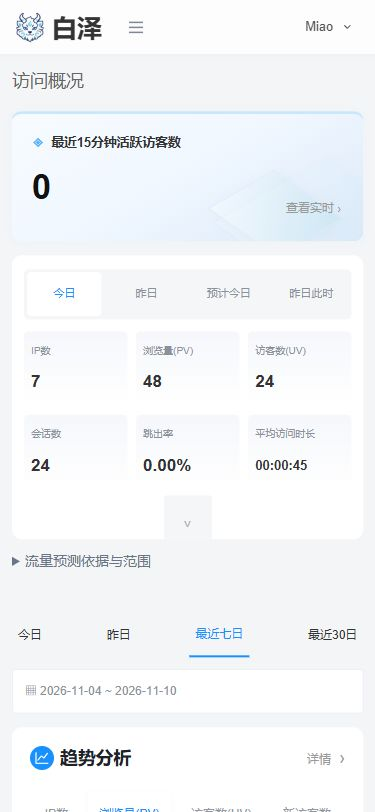
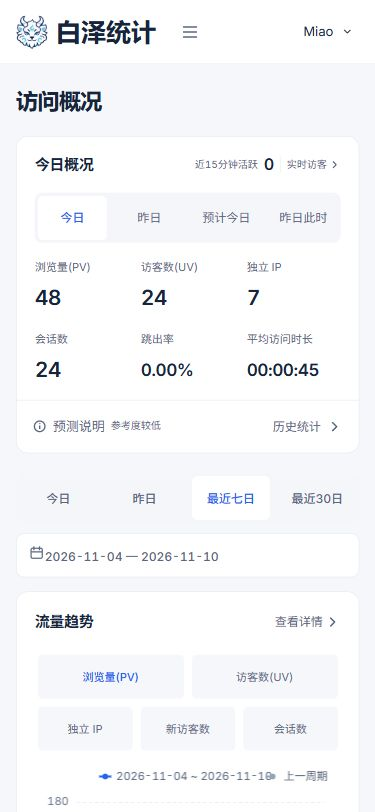
docs: update Baize product positioning and current UI previews

diff --git a/README.md b/README.md
@@ -4,7 +4,7 @@
 
 **把网站流量、页面表现和转化放在自己的服务器上。**
 
-白泽是一套免费、自托管的网站分析工具，提供中文和英文界面。接入追踪代码后，可以查看访问、来源、页面与受众，再按需要启用事件、目标、SEO 和 AI 分析。功能不设付费门槛，服务器和外部服务的费用由使用者承担。
+白泽是一套开源、自托管的网站统计产品。接入统计代码后，即可查看访问趋势、流量来源、页面表现和转化。支持中文与英文界面。
 
 项目正在打磨完善，欢迎通过 [Issue](https://github.com/bocmiao/baize-analytics/issues) 反馈问题，也欢迎提交 [PR](https://github.com/bocmiao/baize-analytics/pulls)。
 
@@ -15,17 +15,17 @@
 - **看清网站访问**：浏览量、访客、会话、来源渠道、UTM、热门页面、设备、地域和 Web Vitals，支持日期筛选与期间对比。
 - **补全流量细节（Node 标准版）**：独立 IP、离线 IPv4 / IPv6 地域与运营商、今日流量预测、事件定义管理及蜘蛛访问日志。[配置方法](docs/TRAFFIC_DATA_SETUP.md)。
 - **管理内容与推广（Node 标准版）**：自定义目录规则，保存推广链接和 UTM 参数，生成本地二维码，按来源、活动、媒介逐级分析。[使用说明](docs/CONTENT_CAMPAIGN_SETUP.md)。
-- **追踪事件与转化**：自定义事件和目标；标准版还提供漏斗、路径、留存与实验归因。
+- **追踪事件与转化**：自定义事件和目标；标准版还提供漏斗、路径和留存分析。
 - **管理多个站点**：站点权限、数据导出、保留期限和访客删除；标准版支持团队邀请、分享、定时报表与告警。
-- **按需分析**：标准版可启用会话回放、页面热力图、可视化事件圈选、多事件与参数比较、搜索连接器和 AI；Lite 提供手动 HTML 检查和手动 BYOK AI。
+- **分析访客行为**：标准版支持会话回放、页面热力图、可视化事件圈选，以及多事件与参数比较。
 - **分享汇总（Node 标准版）**：带密码和有效期的只读看板，以及趋势、来源、设备、地域和页面图表嵌入。[分享说明](docs/SHARED_DASHBOARDS.md)。
-- **保留数据控制权**：支持采集同意、隐私设置和独立删除日志；恢复备份时重放删除记录。AI 默认关闭，使用时由你提供密钥并授权外发。
+- **保留数据控制权**：支持采集同意、隐私设置和独立删除日志；恢复备份时重放删除记录。
 
 ## 界面预览
 
-当前后台采用白色桌面工作台，手机端提供适配的导航与报表布局。预览使用独立演示站点的数据；[截图来源与验证范围](docs/images/README.md)。
+工作台采用白泽蓝白配色，支持深色模式和手机布局。统计、转化和行为分析按任务分组，管理工具收进设置。预览使用独立演示站点的数据；[截图来源与验证范围](docs/images/README.md)。
 
-这版新增的流量报表由 **Node 标准版**提供；Node Lite 和独立 PHP 版保留各自既有能力。具体范围见[界面与报表说明](docs/51LA_ALIGNMENT.md)、[逐项功能对照](docs/51LA_FUNCTION_MATRIX.md)和[桌面与手机实机验收](docs/validation/51LA_FUNCTIONAL_NAS_20261110.md)。
+这版新增的流量报表由 **Node 标准版**提供；Node Lite 和独立 PHP 版保留各自既有能力。本次界面整理见[产品界面验收](docs/validation/BAIZE_PRODUCT_UI_20261110.md)，完整能力范围见[逐项功能对照](docs/51LA_FUNCTION_MATRIX.md)。
 
 ![白泽桌面端界面](docs/images/baize-desktop.jpg)
 
@@ -40,8 +40,8 @@
 
 | 运行方式 | 存储与部署 | 适用范围 |
 | --- | --- | --- |
-| **Node 标准版** | PostgreSQL；Docker 安装提供 PostgreSQL 和 Redis，也可独立托管 | 完整统计、行为分析、团队协作与连接器 |
-| **Node Lite** | 本地 SQLite，单应用进程；不需要独立数据库服务 | 核心统计、事件、简单事件目标，以及手动 SEO / AI |
+| **Node 标准版** | PostgreSQL；Docker 安装提供 PostgreSQL 和 Redis，也可独立托管 | 完整统计、行为分析、团队协作与报表管理 |
+| **Node Lite** | 本地 SQLite，单应用进程；不需要独立数据库服务 | 核心统计、事件与简单事件目标 |
 | **独立 PHP 版** | PHP 8.3+、PHP-FPM、MySQL 和 CLI worker | 面向 PHP / 1Panel 环境，功能对照和数据库兼容性见 [PHP 指南](docs/PHP_INSTALLATION.md) |
 
 Lite 不提供漏斗、路径、留存、回放、热力图等高级能力，只支持一个本地数据库写入者，不使用网络文件系统。需要转到 Node 标准版时，按 [迁移指南](docs/lite-migration.md) 操作。

diff --git a/README.en.md b/README.en.md
@@ -4,7 +4,7 @@
 
 **Understand traffic, page performance and conversions on your own server.**
 
-Baize is a free, self-hosted website analytics tool with Chinese and English interfaces. Add its tracker to see traffic, sources, pages and audiences, then enable events, goals, SEO or AI analysis as needed. There are no paid feature gates; you cover your hosting and external-service costs.
+Baize is an open-source, self-hosted website analytics product. Add the tracking code to explore traffic trends, acquisition, page performance and conversions. Chinese and English interfaces are available.
 
 Baize is under active development. [Bug reports and suggestions](https://github.com/bocmiao/baize-analytics/issues) and [pull requests](https://github.com/bocmiao/baize-analytics/pulls) are welcome.
 
@@ -14,16 +14,16 @@ Baize is under active development. [Bug reports and suggestions](https://github.
 
 - **Understand visits:** pageviews, visitors, sessions, channels, UTM, popular pages, devices, geography and Web Vitals, with date filters and period comparisons.
 - **Complete traffic details (Node Standard):** distinct IPs, offline IPv4/IPv6 geography and ISP data, today’s traffic forecast, event definitions and crawler access logs. [Setup guide](docs/TRAFFIC_DATA_SETUP.md) (Chinese).
-- **Track events and conversions:** custom events and goals. Standard also offers funnels, paths, retention and experiment attribution.
+- **Track events and conversions:** custom events and goals. Standard also offers funnels, paths and retention.
 - **Manage multiple sites:** site permissions, exports, data retention and visitor deletion. Standard adds team invitations, sharing, scheduled reports and alerts.
-- **Explore when needed:** opt-in replay, heatmaps, search connectors and AI in Standard; manual HTML checks and manual BYOK AI in Lite.
-- **Control your data:** collection consent, privacy settings and an independent deletion journal that is replayed during recovery. AI is off by default and requires your key and permission to send data.
+- **Explore visitor behavior:** opt-in replay, heatmaps, visual event selection, and event comparisons in Standard.
+- **Control your data:** collection consent, privacy settings and an independent deletion journal that is replayed during recovery.
 
 ## Interface
 
-The current dashboard uses a white desktop workspace, with navigation and report layouts adapted for mobile. The preview uses a separate demonstration site's data. See [capture details and validation scope](docs/images/README.md).
+The workspace uses Baize’s blue and white palette, with dark mode and mobile layouts. Analytics are organized by task, with administration grouped under Settings. The preview uses a separate demonstration site's data. See [capture details and validation scope](docs/images/README.md).
 
-The new traffic reports in this interface are available in **Node Standard**. Node Lite and the independent PHP application retain their existing capabilities. See [interface and report scope](docs/51LA_ALIGNMENT.md) (Chinese).
+The new traffic reports in this interface are available in **Node Standard**. Node Lite and the independent PHP application retain their existing capabilities. See the [product UI validation](docs/validation/BAIZE_PRODUCT_UI_20261110.md) and [feature matrix](docs/51LA_FUNCTION_MATRIX.md) (Chinese).
 
 ![Baize desktop interface](docs/images/baize-desktop.jpg)
 
@@ -38,8 +38,8 @@ The new traffic reports in this interface are available in **Node Standard**. No
 
 | Runtime | Storage and deployment | Scope |
 | --- | --- | --- |
-| **Node Standard** | PostgreSQL; the Docker installer includes PostgreSQL and Redis, or you can host the services separately | Full analytics, behavioral reports, collaboration and connectors |
-| **Node Lite** | Local SQLite and one application process; no separate database service | Core analytics, events, simple event goals and manual SEO / AI |
+| **Node Standard** | PostgreSQL; the Docker installer includes PostgreSQL and Redis, or you can host the services separately | Full analytics, behavioral reports, collaboration and report management |
+| **Node Lite** | Local SQLite and one application process; no separate database service | Core analytics, events and simple event goals |
 | **Independent PHP application** | PHP 8.3+, PHP-FPM, MySQL and a CLI worker | PHP / 1Panel hosting; see the [PHP guide](docs/PHP_INSTALLATION.md) for feature coverage and database compatibility |
 
 Lite does not include funnels, paths, retention, replay or heatmaps. It requires one local database writer and does not support network filesystems. To move to Node Standard, follow the [migration guide](docs/lite-migration.md).

diff --git a/docs/validation/BAIZE_PRODUCT_UI_20261110.md b/docs/validation/BAIZE_PRODUCT_UI_20261110.md
@@ -1,0 +1,39 @@
+# 白泽产品界面整理
+
+日期：2026-11-10。运行源码：`b1ed60c`；主要改动提交：`93bde61`。
+
+本轮把工作台聚焦于网站访问分析，使用白泽已有头像和蓝色品牌。统计服务、数据库结构和采集逻辑未改动。
+
+## 界面改动
+
+- 删除概况底部的人工日期备注，移除正常查询下的存储来源、epoch、水位等内部说明。
+- 主导航整理为概况、实时、流量、来源、内容、访客、转化、行为、推广、设置。AI、SEO、收入、实验等九个非核心入口退出默认导航；既有路由保留兼容。
+- 通知、定时报表和告警收进设置；接口令牌、任务、审计与更新归入高级管理，沿用权限过滤。
+- 今日、昨日、预测和同期数据放在一张对比表内，实时人数移至表头。预测仍标明参考程度，计算依据默认折叠。
+- 统一蓝白/深色主题、字体、表格、按钮与卡片；图表采用蓝色主线和灰色比较虚线。日期轴保留完整提示，显示标签缩为月日。
+- 精简访问明细、事件规则、热图、推广、共享看板、IP 规则、目录规则和站点管理等十二个模块的中英文文案。保留隐私同意、删除影响和不可用数据提示。
+- 设置页去掉无效日期筛选和重复外层卡片，改为横向分区。登录及产品入口删除宣传性赘述。
+- 手机保留抽屉导航、可滚动表格、日期弹层及焦点返回；概况指标按窄屏重新排列。
+
+## 验证
+
+| 检查 | 结果与范围 |
+| --- | --- |
+| 构建、TypeScript、ESLint | 本轮检查通过；最终 NAS 镜像构建成功 |
+| 回归测试 | 8 个文件、65 项通过，涵盖导航、路由、概况刷新、数据状态、日期、预测、访问明细和共享看板 |
+| NAS 接口 | `93bde61` 镜像上 67/67 通过；10 项临时资源清理完成。后续 `b1ed60c` 仅调整界面和图表标签 |
+| 原有数据 | 验收前后 3 个原站点、3,444 条事件及完整摘要一致 |
+| 响应式 | 本轮实际浏览器检查 320、375、768、1440、1920px，概况/访问明细无页面横向溢出 |
+| 操作 | 导航切换、手机抽屉、日期弹层打开/关闭、Escape 后焦点返回、深浅色切换已实测 |
+| 页面 | 实看概况、趋势、设置、访问明细；最终版本再次确认概况和设置，控制台没有捕获到错误 |
+| 部署 | main 直接交付，NAS 应用、PostgreSQL、Redis 健康；实际部署与持久化路径位于 ZHITAI TiPlus7100s 1TB NVMe SSD |
+
+本轮检查范围是界面整理及对应回归，不替代此前整套功能验收。Lite 的既有概况样式已改用同一主题变量，本轮未启动独立 Lite 或 PHP 实例。
+
+最终运行镜像：
+
+```text
+sha256:def710577736fc4d1c59d9c8a479368800a76c57c1800f0469d3ed74ec565157
+```
+
+本机详细证据：`.baize/product-live-check.json`、`.baize/product-ui/` 和 `.baize/nas/deployment.json`。截图及来源见 [界面预览说明](../images/README.md)。

diff --git a/docs/images/README.md b/docs/images/README.md
@@ -5,10 +5,10 @@
 本批截图的运行镜像：
 
 ```text
-sha256:f1e284539bc4d9923eb4137cee2cf96e9ef7e5079482c529356115d632f53257
+sha256:def710577736fc4d1c59d9c8a479368800a76c57c1800f0469d3ed74ec565157
 ```
 
-构建源码提交：`80c2e793c12adecf3d2b8e8c68e816e3b6d35b8e`。
+构建源码提交：`b1ed60c`。
 
 | 图片 | 浏览器视口 | JPG 实际像素 | 内容 |
 | --- | --- | --- | --- |
@@ -21,11 +21,11 @@ sha256:f1e284539bc4d9923eb4137cee2cf96e9ef7e5079482c529356115d632f53257
 
 桌面下方选中 2026-11-04 至 2026-11-10，概况顶部按站点日历单独计算今日、昨日、预计今日及昨日同期。手机首屏选择“今日”。独立 IP、运营商和预测已接真实统计逻辑，地域库状态为 ready。预测是白泽独立实现的历史同期估算，展开依据可查看样本和参考范围。
 
-原有站点没有完整 IP 标识的旧记录仍显示不可用；没有为旧记录补造 IP 或地域。原始输入与统计核验见 [流量统计验收记录](../validation/51LA_COMPLETION_NAS_20261110.md)，本版 801 项单测、190 次页面检查和真实交互见 [本轮功能验收记录](../validation/51LA_FUNCTIONAL_NAS_20261110.md)。
+原有站点没有完整 IP 标识的旧记录仍显示不可用；没有为旧记录补造 IP 或地域。原始输入与统计核验见 [流量统计验收记录](../validation/51LA_COMPLETION_NAS_20261110.md)，此前整套功能验收见 [功能验收记录](../validation/51LA_FUNCTIONAL_NAS_20261110.md)，当前蓝白产品界面的 65 项回归和响应式检查见 [界面验收记录](../validation/BAIZE_PRODUCT_UI_20261110.md)。
 
 图片 SHA-256：
 
 ```text
-94d21139781f0656e8fb5571c95d7a0dbae07e73382cf745170bbbf6934a849f  baize-desktop.jpg
-40db945ca2d6b7729d340cd1ea8e3b1a225c195e458e0602f8c46184082bd033  baize-mobile.jpg
+8df5bcc2dfbd576ce5ed5a162ddf88a54cbc19558ebb647eca1b8c871ee60c38  baize-desktop.jpg
+7d2f9c1d4bbb73bc66031a0ac93f8f1795c976cd4a58edd31168316b872b30b0  baize-mobile.jpg
 ```
